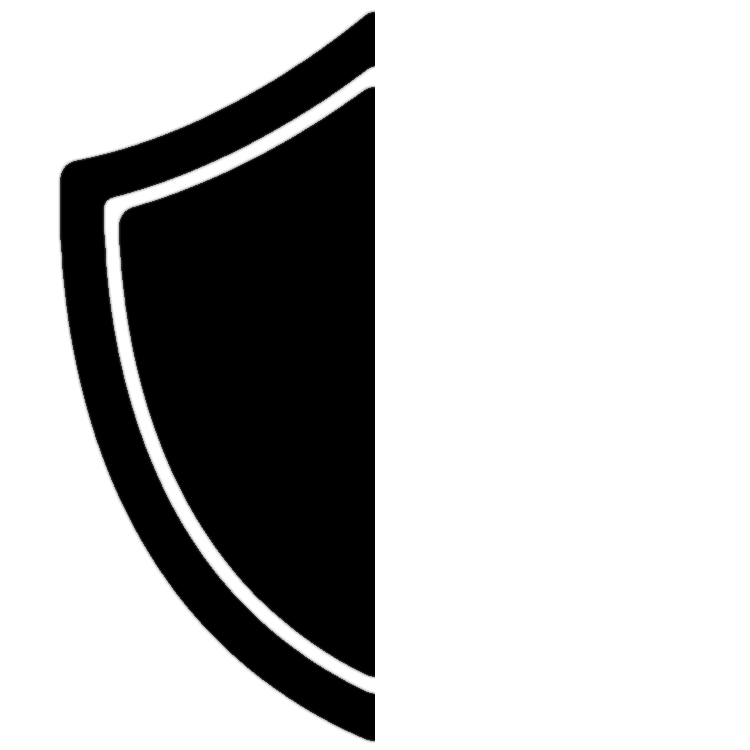
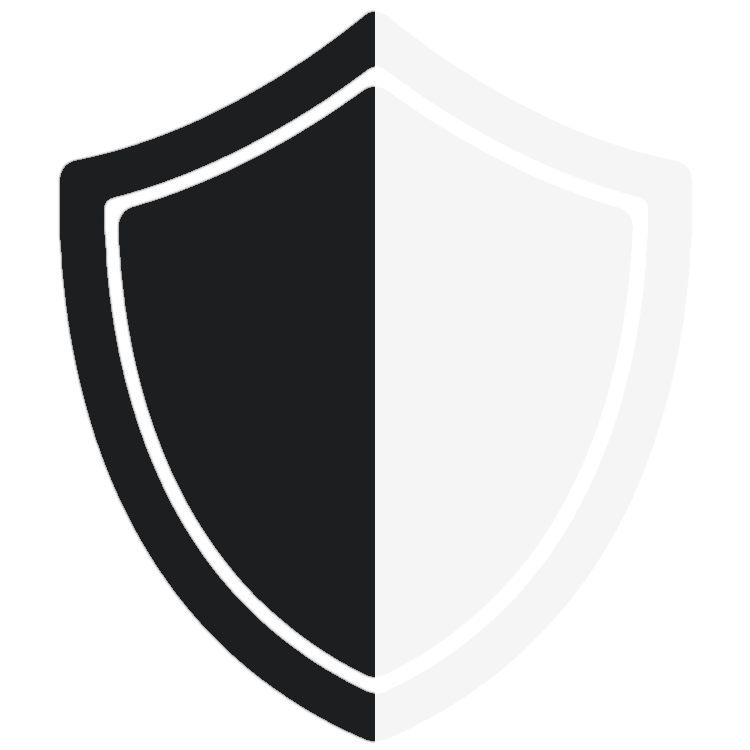
v1.2
* Fixed Documentation header error
* Changed logo icon

Changed region(s): [[0.0613, 0.0, 0.5213, 0.9813]]

diff --git a/content/docs/_index.md b/content/docs/_index.md
@@ -1,6 +1,6 @@
 ---
-title: Projects
-summary: An archive of projects/programs I've created or worked on.
-description: An archive of projects/programs I've created or worked on.
+title: Documentation
+summary: Guardian's official documentation.
+description: Guardian's official documentation.
 draft: false
 ---
